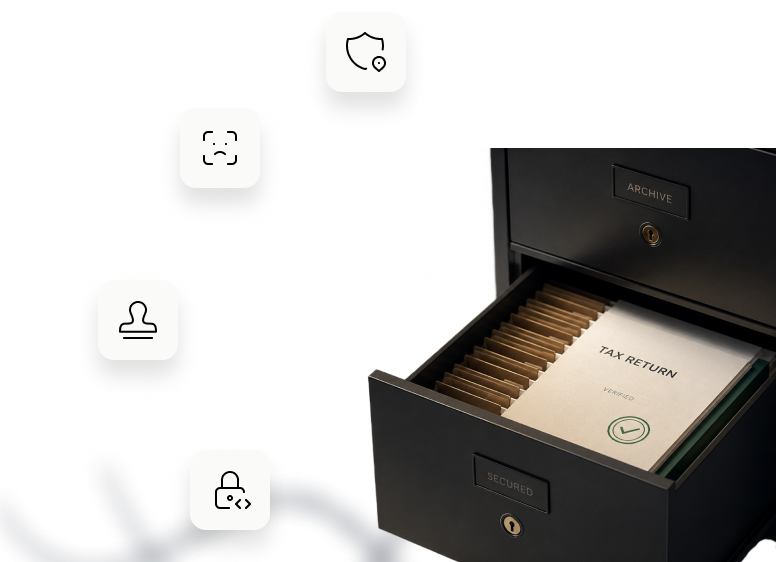
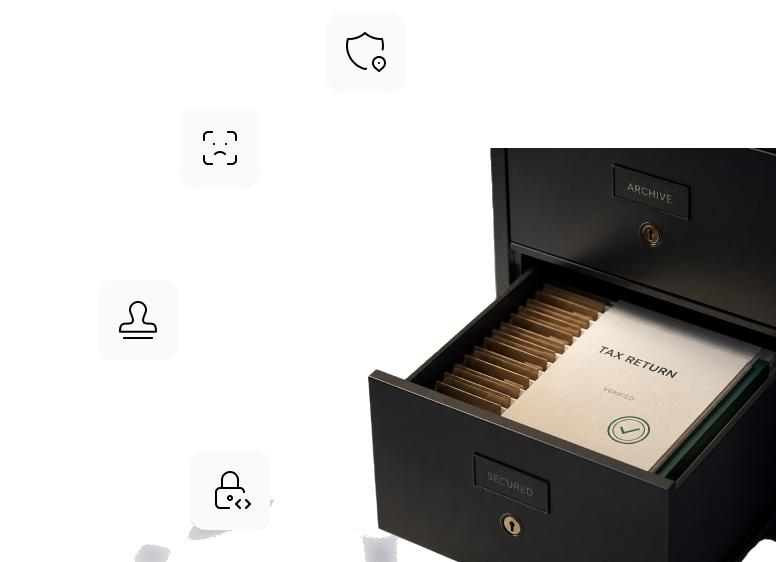
Animate step 2's circles into a slow orbit, clean up step 3's shadow
Step 2: the 4 icon badges (document, checkmark, party-popper, naira)
now orbit slowly around the dotted ring track instead of sitting
static, each counter-rotating so it stays upright as it travels. The
original flat composite is split into a static track background (the
badges masked out of it) plus 4 individually cropped badge sprites, so
each can be positioned/animated on its own — built with core
Animated + transforms, no new dependency.

Step 3: the file-cabinet illustration had a large, soft drop-shadow
baked into its alpha channel, sized for a plain white backdrop. Against
this step's gold gradient it read as a visible smudged boundary right
where the user said "you can see the end of the illustration". Alpha-
thresholded the source PNG to drop that diffuse shadow while keeping
the crisp artwork and each badge's own small, appropriately-scoped
shadow intact.

Claude-Session: https://claude.ai/code/session_01GeghZ7AeoUAi7FYnvHTKjz

diff --git a/app/(onboarding)/step-2.tsx b/app/(onboarding)/step-2.tsx
@@ -1,23 +1,106 @@
 /**
  * Onboarding step 2 — Figma node 93:942 ("File in Four Simple Steps").
- * Illustration: 4 connected circles (document, checkmark, party-popper, ₦)
- * linked by dotted arcs.
+ * Illustration: 4 icon badges (document, checkmark, party-popper, ₦) orbit
+ * slowly around a dotted ring "track", each staying upright as it travels —
+ * an animated take on the static Figma frame (which just showed the 4
+ * badges fixed in place). The track is the original artwork with the
+ * badges masked out; each badge is its own cropped sprite so it can be
+ * positioned and spun independently.
  */
-import { StyleSheet } from 'react-native';
+import { useEffect, useRef, useState } from 'react';
+import { Animated, Easing, LayoutChangeEvent, StyleSheet, View } from 'react-native';
 import { Image } from 'expo-image';
 import { OnboardingScreen } from '../../components/layout/OnboardingScreen';
 import { colors } from '../../constants/colors';
 
-const illustration = require('../../assets/images/step-2-illustration.png');
+const track = require('../../assets/images/step-2-track.png');
+
+const ORBIT_DURATION_MS = 22000;
+const RADIUS_FRACTION = 0.32;
+const BADGE_SIZE_FRACTION = 0.34;
+
+const badges = [
+  { source: require('../../assets/images/badge-checkmark.png'), angle: 45 },
+  { source: require('../../assets/images/badge-naira.png'), angle: 135 },
+  { source: require('../../assets/images/badge-party-popper.png'), angle: 225 },
+  { source: require('../../assets/images/badge-document.png'), angle: 315 },
+];
+
+type OrbitingBadgeProps = {
+  source: number;
+  angle: number;
+  spin: Animated.Value;
+  size: number;
+  radius: number;
+};
+
+/**
+ * Orbits `source` around the container's center at `radius`, starting at
+ * `angle` degrees (clockwise from 12 o'clock) and advancing with `spin`
+ * (0 -> 1 once per loop). A counter-rotation cancels the accumulated
+ * rotation from its ancestors so the icon itself never tips over.
+ */
+function OrbitingBadge({ source, angle, spin, size, radius }: OrbitingBadgeProps) {
+  const orbitRotate = spin.interpolate({ inputRange: [0, 1], outputRange: ['0deg', '360deg'] });
+  const counterRotate = spin.interpolate({
+    inputRange: [0, 1],
+    outputRange: [`${-angle}deg`, `${-angle - 360}deg`],
+  });
+
+  return (
+    <View style={[StyleSheet.absoluteFill, styles.center]}>
+      <View style={{ transform: [{ rotate: `${angle}deg` }] }}>
+        <Animated.View style={{ transform: [{ rotate: orbitRotate }] }}>
+          <View style={{ transform: [{ translateY: -radius }] }}>
+            <Animated.View style={{ width: size, height: size, transform: [{ rotate: counterRotate }] }}>
+              <Image source={source} style={styles.badgeImage} contentFit="contain" />
+            </Animated.View>
+          </View>
+        </Animated.View>
+      </View>
+    </View>
+  );
+}
 
 function Step2Illustration() {
+  const spin = useRef(new Animated.Value(0)).current;
+  const [box, setBox] = useState({ width: 0, height: 0 });
+
+  useEffect(() => {
+    const loop = Animated.loop(
+      Animated.timing(spin, {
+        toValue: 1,
+        duration: ORBIT_DURATION_MS,
+        easing: Easing.linear,
+        useNativeDriver: true,
+      })
+    );
+    loop.start();
+    return () => loop.stop();
+  }, [spin]);
+
+  const handleLayout = (event: LayoutChangeEvent) => {
+    const { width, height } = event.nativeEvent.layout;
+    setBox({ width, height });
+  };
+
+  const size = Math.min(box.width, box.height);
+
   return (
-    <Image
-      source={illustration}
-      style={styles.illustration}
-      contentFit="contain"
-      contentPosition="bottom"
-    />
+    <View style={styles.illustration} onLayout={handleLayout}>
+      <Image source={track} style={StyleSheet.absoluteFill} contentFit="contain" />
+      {size > 0 &&
+        badges.map((badge) => (
+          <OrbitingBadge
+            key={badge.angle}
+            source={badge.source}
+            angle={badge.angle}
+            spin={spin}
+            size={size * BADGE_SIZE_FRACTION}
+            radius={size * RADIUS_FRACTION}
+          />
+        ))}
+    </View>
   );
 }
 
@@ -40,6 +123,14 @@ export default function OnboardingStepTwo() {
 
 const styles = StyleSheet.create({
   illustration: {
+    width: '100%',
+    height: '100%',
+  },
+  center: {
+    alignItems: 'center',
+    justifyContent: 'center',
+  },
+  badgeImage: {
     width: '100%',
     height: '100%',
   },
